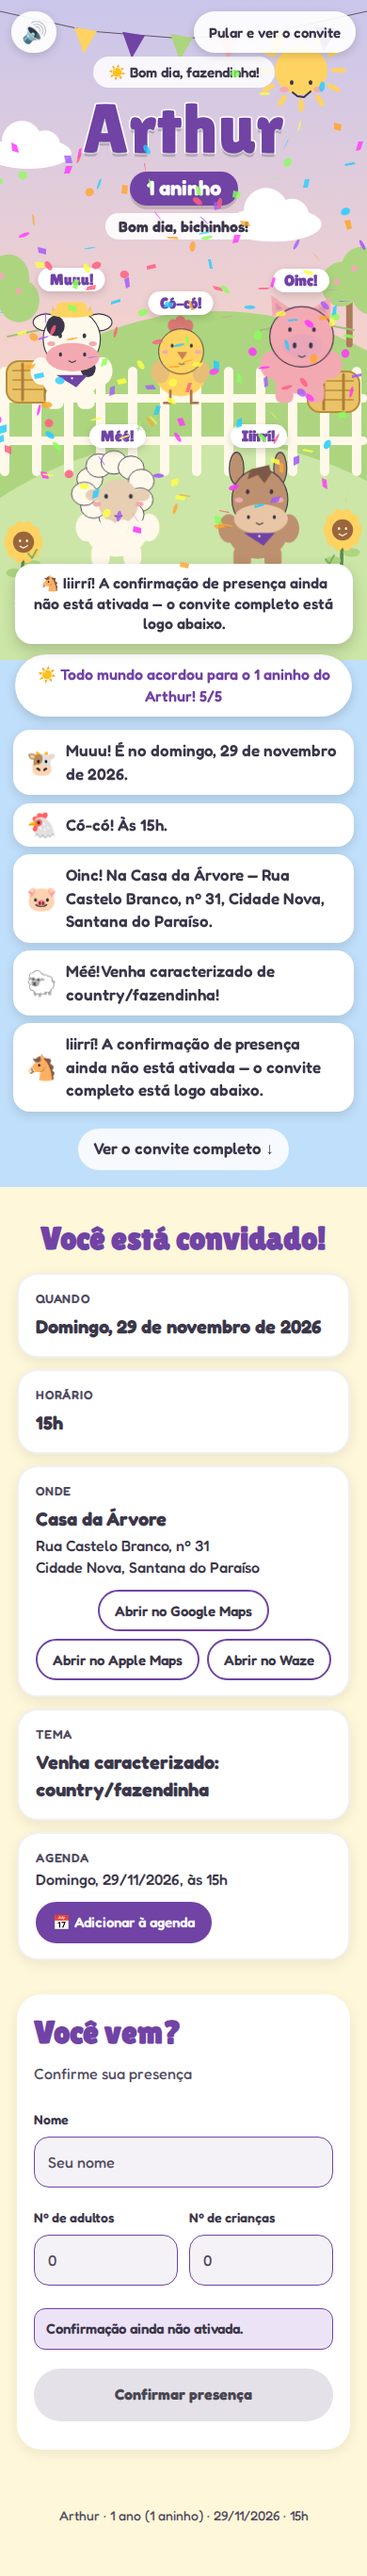
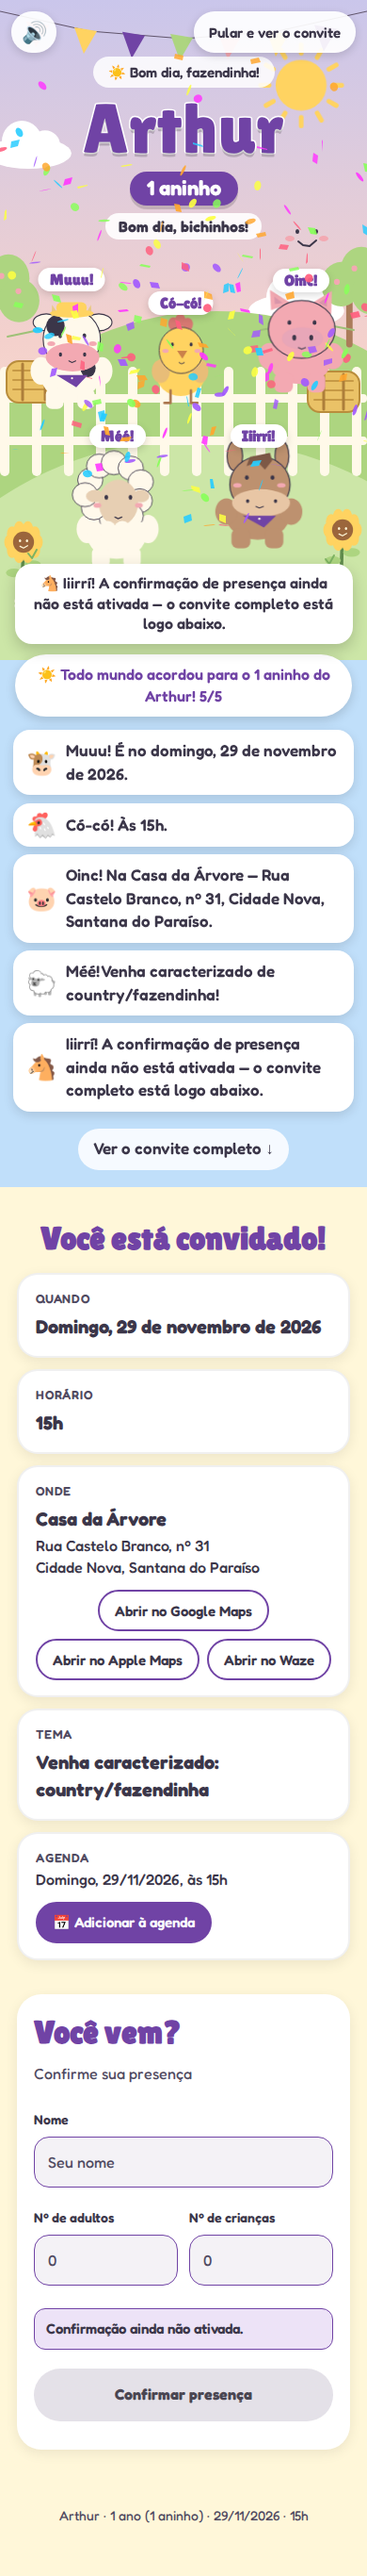
Passe de arte 02 da Deidara (aprovado): sol e nuvem fora da faixa do título (B01) e halos menores alternados no conceito 4 (B02)

diff --git a/conceito-4/estilo.css b/conceito-4/estilo.css
@@ -4,3 +4,6 @@
   --fundo:#FFF7D9;--texto:#3B3649;--acento:#7043A5;--sec:#4F4960;--apoio:#EDE3F7;--campo:#FFFFFF;--titulo:"Lilita One",system-ui,sans-serif}
 .titulo h1{font-weight:400}
 .cena-v3[data-estado=fim] .cena-arte #c4-sun{transform-box:fill-box;transform-origin:50% 50%;animation:pulinho .8s ease-in-out 2}
+/* B02 (passe 02): halo menor, dentro do bichinho, e um de cada vez (a área de toque continua inteira) */
+.alvo:not(.feito)::after{inset:22%;animation-duration:3.5s}
+.alvo:nth-of-type(2)::after{animation-delay:.7s}.alvo:nth-of-type(3)::after{animation-delay:1.4s}.alvo:nth-of-type(4)::after{animation-delay:2.1s}.alvo:nth-of-type(5)::after{animation-delay:2.8s}

diff --git a/comum/festa.css b/comum/festa.css
@@ -109,3 +109,6 @@ img,svg{display:block;max-width:100%}
 .palco-v3:has(.acao) .atual{display:none !important} /* no bolo, o próprio bolo mostra o passo; o dado aparece logo abaixo */
 /* A03: "1 aninho" em Fredoka 700 */
 .festa .idade{font-family:"Fredoka",system-ui,sans-serif;font-weight:700}
+/* B01 (passe 02): sol (com o rosto) e nuvem da direita fora da faixa do título; "translate" não briga com as animações */
+.cena-arte [id$="-sun"],.cena-arte [id$="-sun-face"]{translate:6px 158px}
+.cena-arte [id$="-cloud-right"]{translate:24px 92px}

diff --git a/design/v3/passe-arte-02/README.md b/design/v3/passe-arte-02/README.md
@@ -1,0 +1,26 @@
+# Passe de arte 02 — aprovado para apresentação
+
+Conferência das páginas rodando em **390 CSS**, em **27/10/2026, 18:16–18:22 BRT**. A mensagem de Edward citava dcb5724, mas o worktree já havia avançado até 664cbe2; avaliei a arte efetivamente exibida, sem atribuir hash ao HTML remoto.
+
+**Veredito: APROVADO VISUALMENTE PARA APRESENTAÇÃO AO YAN**, com os dois acabamentos leves abaixo. Eles não bloqueiam a escolha entre as seis propostas. Não é necessário abrir outra rodada de direção de arte nem refazer a integração da cena única.
+
+## Resposta aos três pontos
+
+- **Céu:** a chamada pega parte do sol e a pílula com o nome da brincadeira se funde com a nuvem da direita. O texto continua legível. **B01, baixa:** afastar rosto do sol e nuvem da faixa do cabeçalho, mantendo 8–12 px de respiro visual. Mover sol e rosto juntos, com um grupo de posicionamento separado do que recebe animação; encaixar o sol à direita entre cabeçalho e atores. Não subir para trás do botão Pular. A árvore de grupos já permite esse ajuste; nenhuma arte nova é necessária.
+- **Bolo inicial:** **resolvido.** O contorno pontilhado e os dois bichinhos laterais dão motivo para o toque. Vi a primeira camada entrar, o contorno sumir e o botão passar para a próxima etapa. Manter esse tratamento. Não voltar ao suporte sozinho, nem adicionar outro numeral ao lado da vela.
+- **Alvos/anéis:** o tamanho dos alvos está confortável. **Manter botões grandes.** No5 o anel acompanha bem o ovo. **B02, baixa, apenas no 4:** se quiser polir, usar um anel menor dentro da área do animal ou alternar o destaque entre os bichinhos, para evitar cinco halos grandes disputando os rostos. Isso é só ajuste do indicador visual, sem reduzir hit area nem tirar a reação ao toque. Não precisa desanimar o cenário.
+
+## O que já ficou bom
+
+Olhos fechados/abertos de verdade no 4; cenário de amanhecer com mais camadas; ninho, feno e ovos coloridos no 5; pintinho próprio sem crista; quintal e contorno de bolo no 6. Títulos e idade estão legíveis, com fontes de festa. As três experiências têm personalidades distintas. Sem escolha ou preferência do designer.
+
+## Evidências
+
+- `390-conceito-4-inicial.png`, `390-conceito-5-inicial.png`, `390-conceito-6-inicial.png`: quadros iniciais de gravações próprias do navegador OpenBot, normalizados ao conteúdo de 390×844; originais preservados como `cN-frame-original.png` e `cN-pagina-rodando.webm`.
+- Primeiro toque exercitado nas três páginas: vaquinha, ovinho 1 e camada 1; progresso passou de 0/5 para 1/5. Vi o pintinho no 5 e o dado da festa logo abaixo da cena.
+- `../comparativo-6-opcoes.png` e `../comparativo.png`: seis opções com peso igual. As capturas 1–3 vêm dos prints de Edward; 4–6 das gravações atuais. São páginas reais, não mockups reconstruídos.
+- `evidencias.json` registra horários, fontes e limites.
+
+**Nota técnica separada da arte:** o navegador ainda registrou GET404 de `comum/rsvp-config.local.js` ao recarregar as três URLs. Vi no git a correção local 664cbe2, mas não confirmei que esse código chegou ao navegador público; pode haver versão/cache anterior (hipótese). Edward deve confirmar a revisão publicada antes de declarar console limpo. Não resolver isso publicando configuração local ou Apps Script. O RSVP permaneceu corretamente inativo.
+
+O passe não repete nem certifica e2e completo de mapas, agenda, som ou reduced-motion. Essas verificações seguem com Edward. Nenhuma edição de código do site ou publicação foi feita por Deidara.
